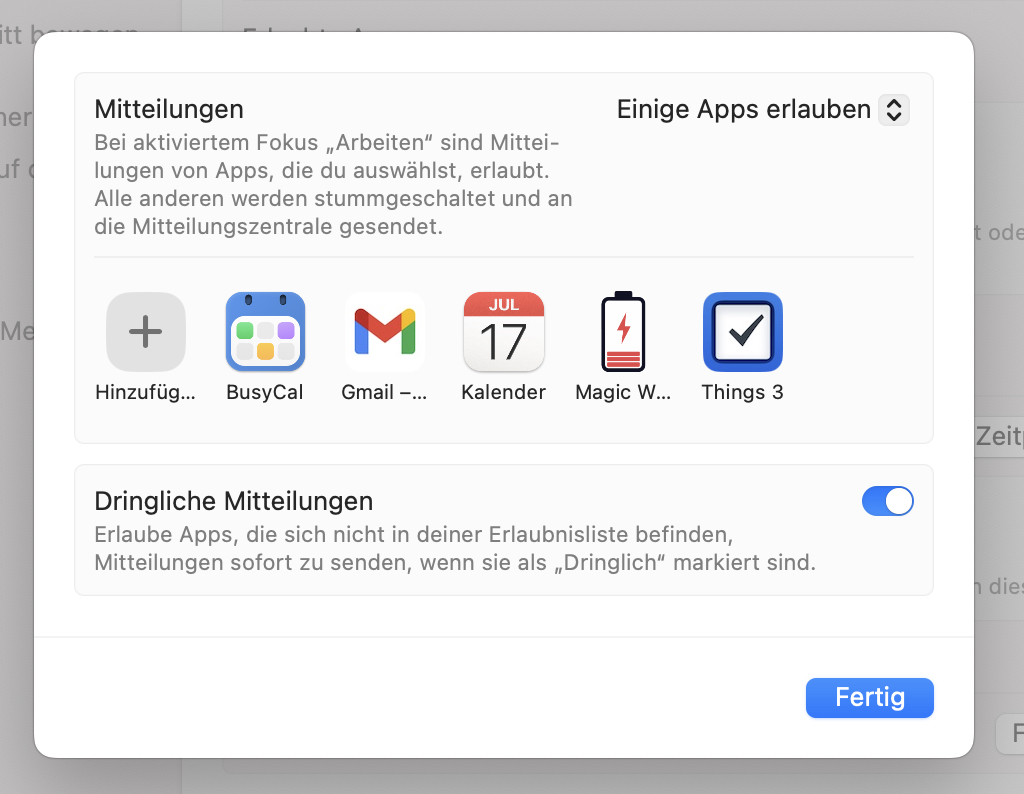
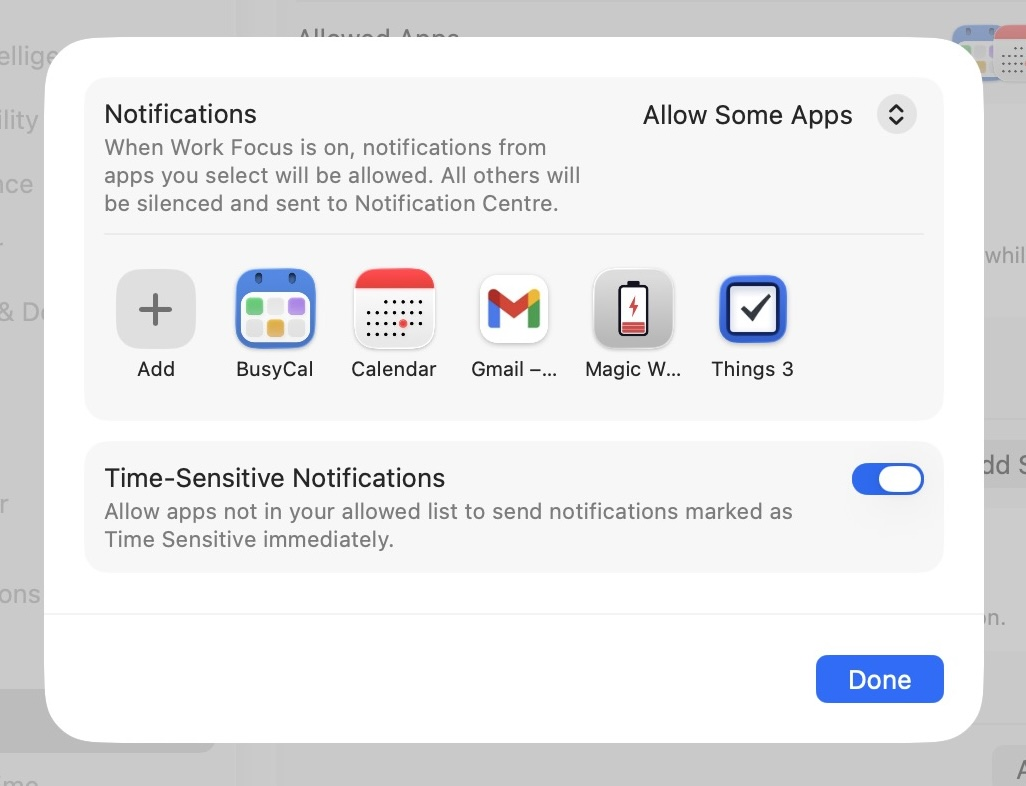
Updated screenshots to English language and Tahoe look

diff --git a/README.md b/README.md
@@ -26,7 +26,9 @@
 
    <img src="./Graphics/messages_authorization.jpg" alt="Notifications settings" style="width:400px;"/>
 
-4. *(Optional)* Allow notifications in Focus modes:
+4. *(Optional)* Set the notification style to **Persistent** in System Settings → Notifications → **Magic Warnings**. Since the app already suppresses repeated warnings for 6 hours per device, each notification that does appear is genuinely important — a Persistent alert stays on screen until you dismiss it, whereas a Temporary banner disappears after a few seconds and is easy to miss. Left unattended, your Magic device will simply run out of battery.
+
+5. *(Optional)* Allow notifications in Focus modes:
 
    <img src="./Graphics/focus_configuration.jpg" width=512 alt="Focus mode configuration"/>
 
